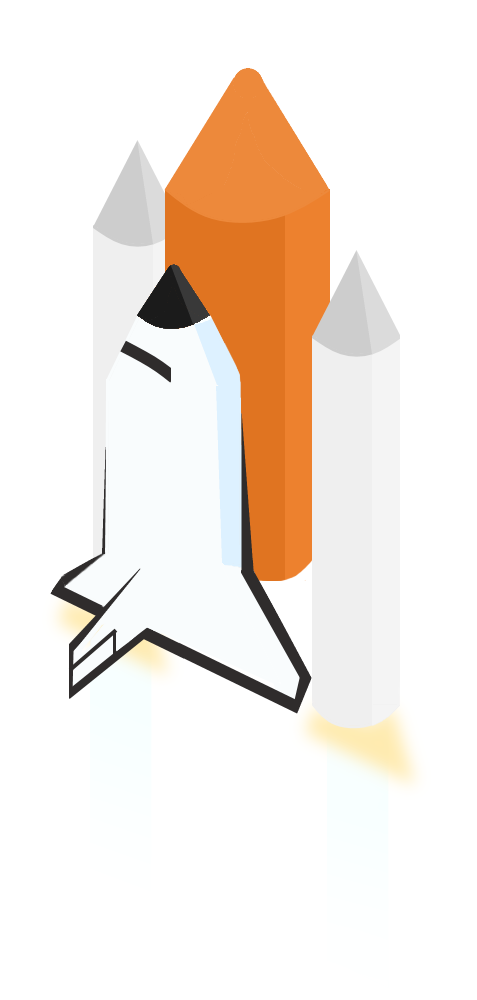
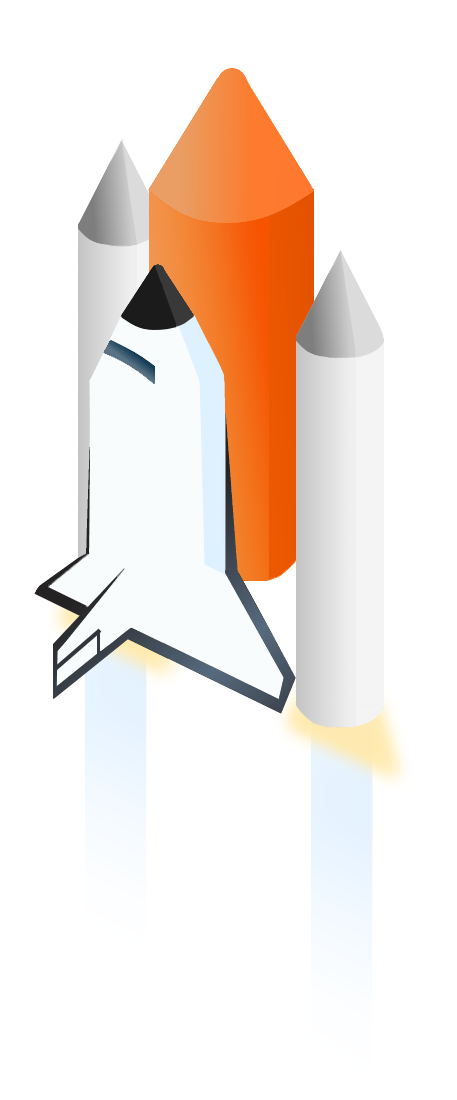
Update space shuttle

Changed region(s): [[0.0613, 0.062, 0.8884, 0.806], [0.5821, 0.093, 0.6127, 0.124]]

diff --git a/css/custom.css b/css/custom.css
@@ -358,6 +358,12 @@ a {
     padding-top: 0px
   }
 
+  .space-shuttle {
+    margin-left: 75% !important;
+    margin-top: 3100px !important;
+    width: 90px !important
+  }
+
   th {
     padding-right: 8px
   }
@@ -861,21 +867,21 @@ a {
 
 .space-shuttle {
   position: absolute;
-  z-index: 7;
+  z-index: 10;
   animation: Liftoff 0.15s linear infinite;
   transition: all 1.4s ease-out;
-  margin-top: 2400px;
+  margin-top: 2700px;
   margin-left: 15%;
-  width: 100px
+  width: 120px
 }
 
 @keyframes Liftoff {
   50% {
-    left: 0.1em
+    left: 1px
   }
 
   50% {
-    right: 0.1em
+    right: 1px
   }
 }
 

diff --git a/index.php b/index.php
@@ -132,7 +132,6 @@
 								<img src="img/space_shuttle.png" class="space-shuttle transition-up-shuttle"></img>
 
 								<div class="avatarinspace-position"><img src="img/avatarinspace.png" class="avatarinspace"></img></div>
-
 								<div class="moon"></div>
 							</div>
 						</div>
